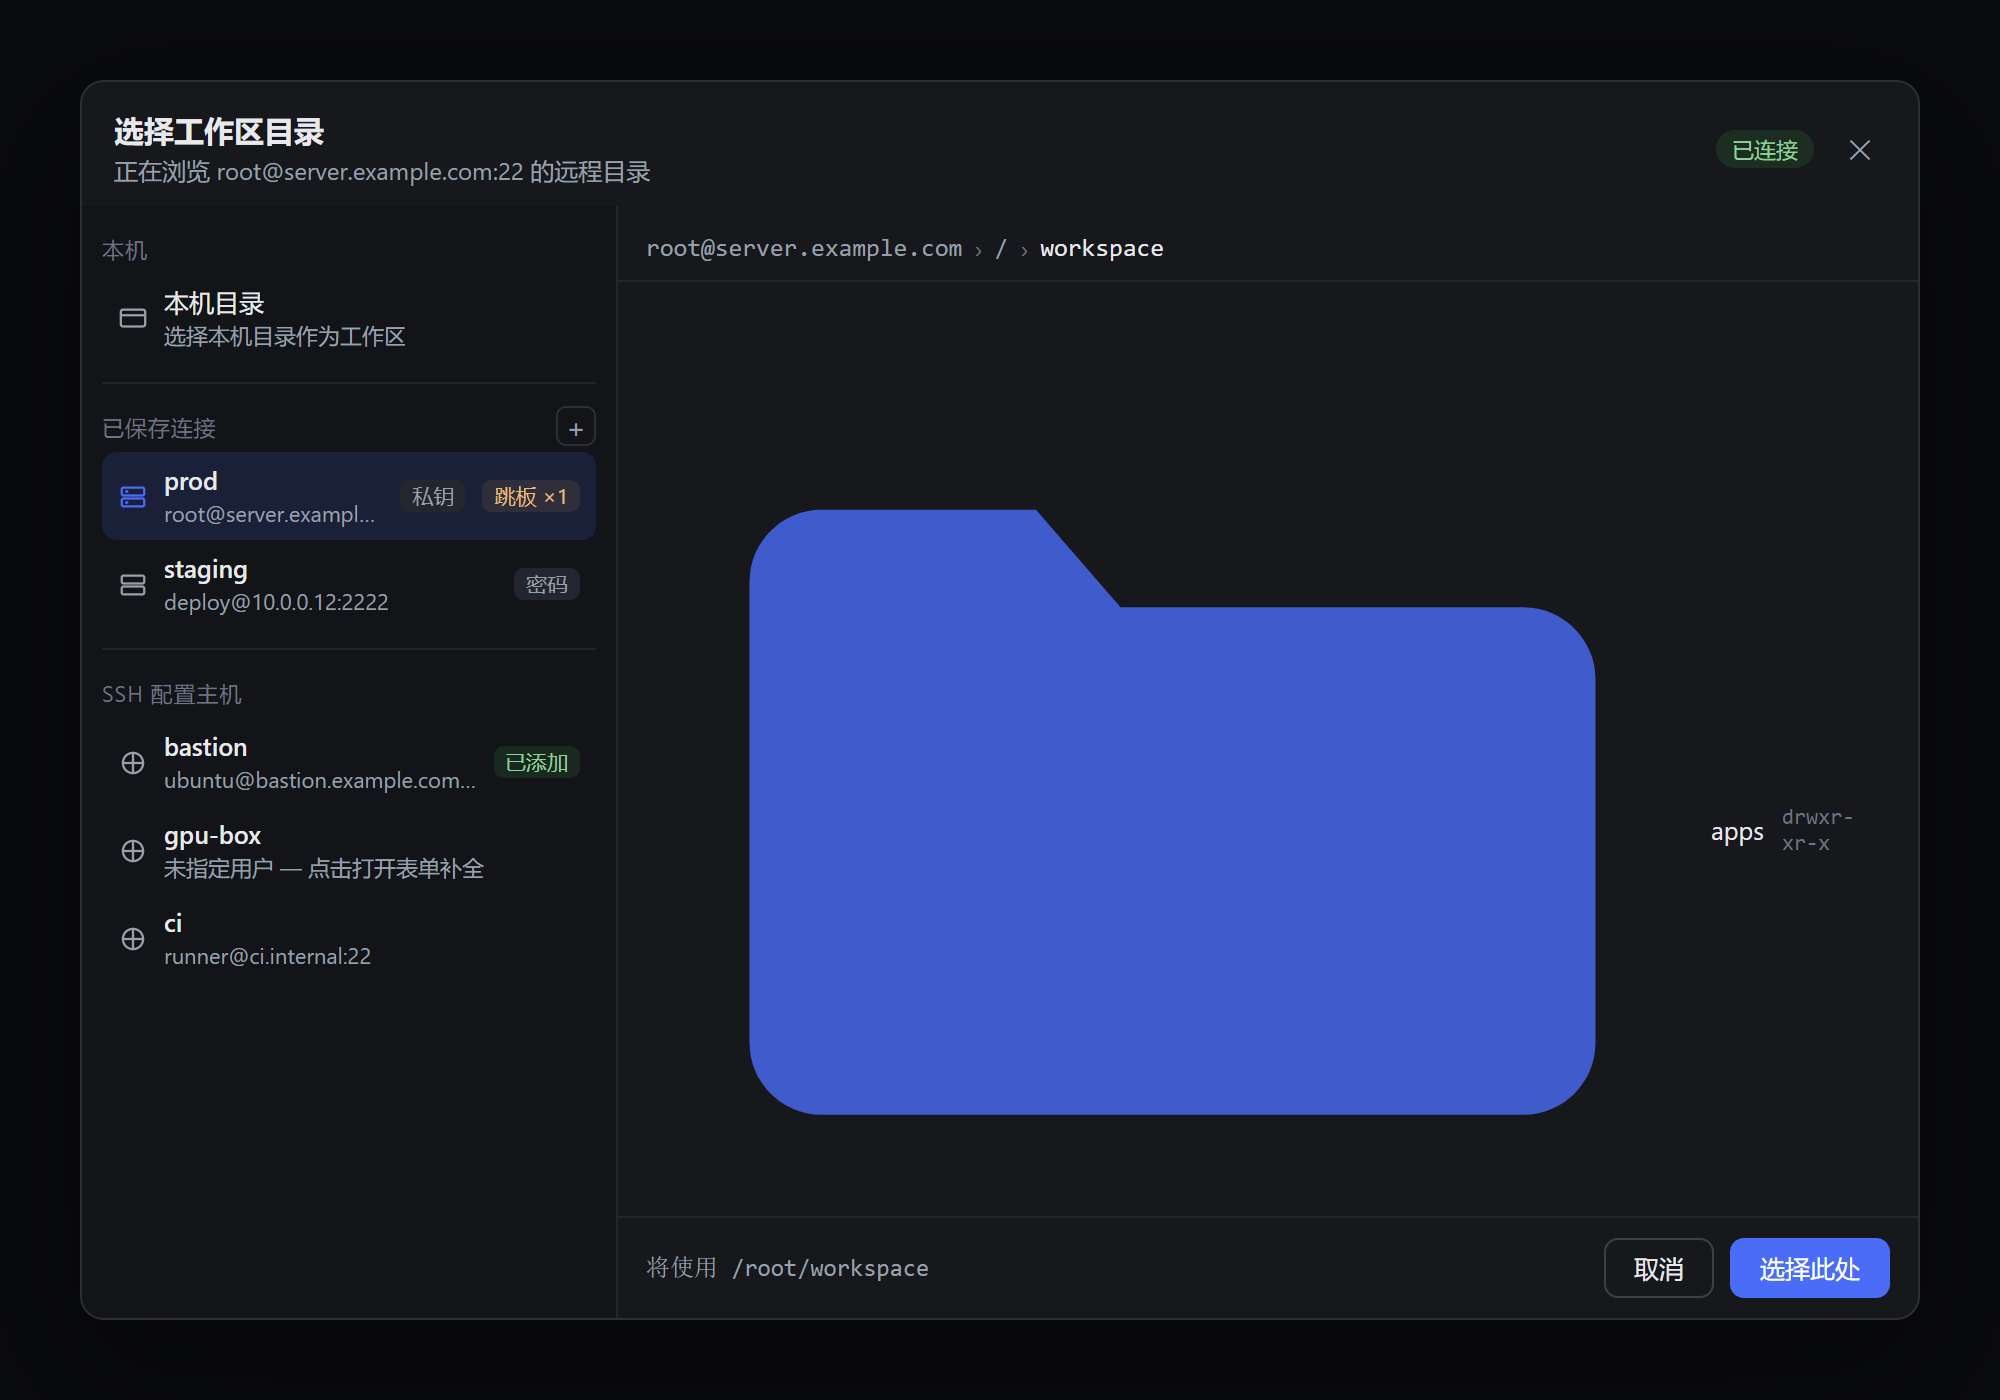
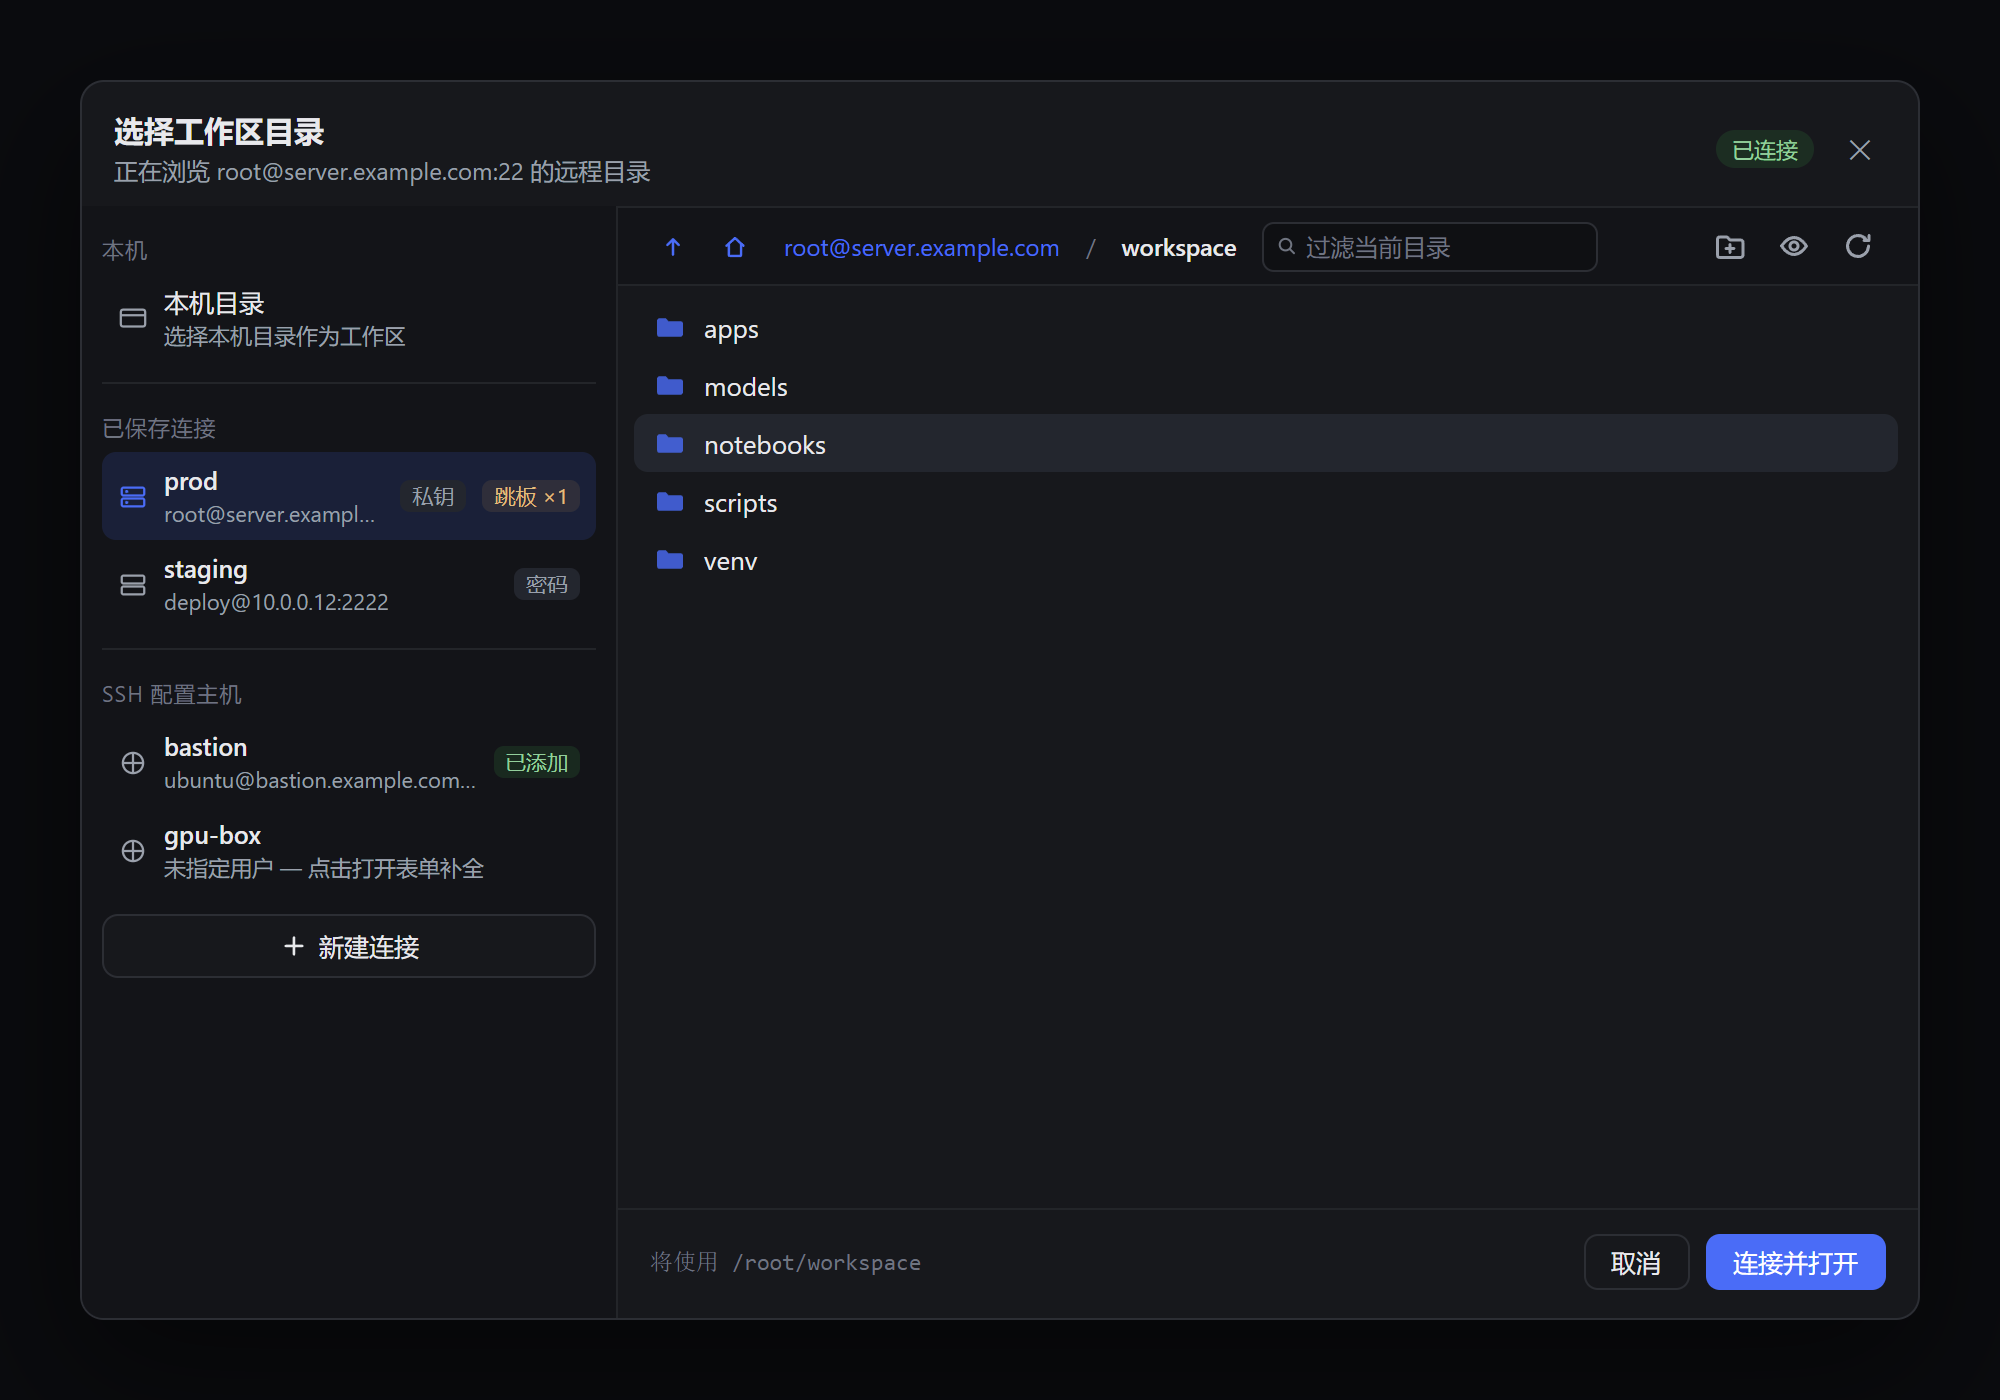
feat(client): filter and keyboard-navigate the directory picker
Add a toolbar filter for the current listing, roving focus across folder
rows, an up-one-level button, and a labeled new-connection action.

diff --git a/src/client/flow.tsx b/src/client/flow.tsx
@@ -9,12 +9,14 @@
  */
 
 import { useEffect, useRef, useState } from 'react'
+import type { KeyboardEvent as ReactKeyboardEvent } from 'react'
 import type { ClientConnection, ConfigHostView, ConnectionState, ConnectionView, WireEntry, WireListing, WireResult } from './index.ts'
 import { ConnectionForm } from './form.tsx'
 import type { ConnectionDraft, ConnectionInputWire, ResolvedSshConfigView } from './form.tsx'
 import { cx, useDialogA11y } from './ui.ts'
 import {
   AlertIcon,
+  ArrowUpIcon,
   CheckIcon,
   ChevronIcon,
   ClockIcon,
@@ -29,6 +31,7 @@ import {
   PlusIcon,
   RefreshIcon,
   RouteIcon,
+  SearchIcon,
   ServerIcon,
   SpinnerIcon,
   TrashIcon,
@@ -324,6 +327,7 @@ export function SshWorkspaceFlow(props: FlowProps & FlowInjected) {
   const [folderBusy, setFolderBusy] = useState(false)
   const [folderError, setFolderError] = useState<string | null>(null)
   const [showHidden, setShowHidden] = useState(false)
+  const [filter, setFilter] = useState('')
   const [nativePicking, setNativePicking] = useState(false)
   const [deleteTarget, setDeleteTarget] = useState<ConnectionView | null>(null)
   const [removingId, setRemovingId] = useState<string | null>(null)
@@ -338,6 +342,8 @@ export function SshWorkspaceFlow(props: FlowProps & FlowInjected) {
   modeRef.current = mode
   const paneRef = useRef<Pane>(pane)
   paneRef.current = pane
+  const searchRef = useRef<HTMLInputElement | null>(null)
+  const entryRefs = useRef<Array<HTMLButtonElement | null>>([])
 
   const hasData = connections.length > 0 || configHosts.length > 0 || pane.listing !== null
   const initialLoading = (connectionsLoading && connections.length === 0)
@@ -390,11 +396,13 @@ export function SshWorkspaceFlow(props: FlowProps & FlowInjected) {
   }
 
   const navigateLocal = (path?: string): void => {
+    if (modeRef.current.kind !== 'local' || path !== paneRef.current.path) setFilter('')
     setMode({ kind: 'local' })
     void loadLevel(signal => listLocalDirectory(path, signal))
   }
 
   const navigateRemote = (id: string, path?: string): void => {
+    if (modeRef.current.kind !== 'remote' || modeRef.current.id !== id || path !== paneRef.current.path) setFilter('')
     setMode({ kind: 'remote', id })
     void loadLevel(async signal => asListing(unwrap(await rpc('browse.list', { id, ...(path !== undefined ? { path } : {}) }, signal), 'browse.list failed')))
   }
@@ -501,6 +509,7 @@ export function SshWorkspaceFlow(props: FlowProps & FlowInjected) {
     setHostError(null)
     setConfirmTarget(null)
     setNativePicking(false)
+    setFilter('')
     setMode({ kind: 'local' })
     void refreshConnections()
     void refreshConfigHosts()
@@ -756,6 +765,10 @@ export function SshWorkspaceFlow(props: FlowProps & FlowInjected) {
 
   const hiddenCount = (pane.listing?.entries ?? []).filter(entry => entry.hidden).length
   const visibleEntries = (pane.listing?.entries ?? []).filter(entry => showHidden || !entry.hidden)
+  const normalizedFilter = filter.trim().toLowerCase()
+  const filteredEntries = normalizedFilter === ''
+    ? visibleEntries
+    : visibleEntries.filter(entry => entry.name.toLowerCase().includes(normalizedFilter))
   const home = pane.listing?.home ?? ''
   const crumbs = pane.listing?.crumbs ?? []
   const lastCrumbIndex = crumbs.length - 1
@@ -786,6 +799,43 @@ export function SshWorkspaceFlow(props: FlowProps & FlowInjected) {
         : pane.path === null
           ? '选择目录后创建会话'
           : `将使用 ${pane.path}`
+
+  /** The ancestor one level up (undefined at a filesystem root). */
+  const parentCrumb = crumbs.length >= 2 ? crumbs[crumbs.length - 2] : undefined
+
+  const goUp = (): void => {
+    if (parentCrumb === undefined) return
+    if (mode.kind === 'local') navigateLocal(parentCrumb.path)
+    else navigateRemote(mode.id, parentCrumb.path)
+  }
+
+  const focusEntry = (index: number): void => {
+    entryRefs.current[index]?.focus()
+  }
+
+  /** Roving focus for the folder list: arrows, Home/End; Enter stays native. */
+  const onEntryKeyDown = (event: ReactKeyboardEvent<HTMLButtonElement>, index: number): void => {
+    if (event.key === 'ArrowDown') {
+      event.preventDefault()
+      focusEntry(Math.min(index + 1, filteredEntries.length - 1))
+    } else if (event.key === 'ArrowUp') {
+      event.preventDefault()
+      focusEntry(Math.max(index - 1, 0))
+    } else if (event.key === 'Home') {
+      event.preventDefault()
+      focusEntry(0)
+    } else if (event.key === 'End') {
+      event.preventDefault()
+      focusEntry(filteredEntries.length - 1)
+    }
+  }
+
+  const onSearchKeyDown = (event: ReactKeyboardEvent<HTMLInputElement>): void => {
+    if (event.key === 'ArrowDown' && filteredEntries.length > 0) {
+      event.preventDefault()
+      focusEntry(0)
+    }
+  }
 
   /** The translated remote failure for the right pane, when there is one. */
   const paneBusinessError = pane.error !== null && !isTransportError(pane.error)
@@ -893,7 +943,7 @@ export function SshWorkspaceFlow(props: FlowProps & FlowInjected) {
                 <div className={styles.sideEmpty}>
                   <ServerIcon className={styles.sideEmptyIcon} style={{ width: 18, height: 18 }} />
                   <p className={styles.sideEmptyTitle}>还没有保存的连接</p>
-                  <p className={styles.sideEmptyText}>点右下角「＋」新建，或从下方 SSH 配置主机一键添加。</p>
+                  <p className={styles.sideEmptyText}>点下方「新建连接」，或从 SSH 配置主机一键添加。</p>
                 </div>
               )}
 
@@ -1063,12 +1113,23 @@ export function SshWorkspaceFlow(props: FlowProps & FlowInjected) {
               onClick={() => { openForm() }}
             >
               <PlusIcon style={{ width: 14, height: 14 }} />
+              新建连接
             </button>
           </nav>
 
           <div className={styles.main}>
             <div className={styles.toolbar}>
               <nav className={styles.crumbs} aria-label="当前路径">
+                <button
+                  type="button"
+                  className={styles.crumb}
+                  aria-label="上一级"
+                  title="上一级"
+                  disabled={locked || pane.loading || parentCrumb === undefined}
+                  onClick={goUp}
+                >
+                  <ArrowUpIcon style={{ width: 13, height: 13, verticalAlign: '-2px' }} />
+                </button>
                 <button
                   type="button"
                   className={styles.crumb}
@@ -1104,6 +1165,29 @@ export function SshWorkspaceFlow(props: FlowProps & FlowInjected) {
                 )}
                 {connectionUi.stale && <span className={styles.cacheTag}><ClockIcon />缓存</span>}
               </nav>
+              <div className={styles.searchBox} role="search">
+                <SearchIcon className={styles.searchIcon} />
+                <input
+                  ref={searchRef}
+                  className={styles.searchInput}
+                  value={filter}
+                  placeholder="过滤当前目录"
+                  aria-label="过滤当前目录"
+                  disabled={locked || pane.listing === null}
+                  onChange={event => { setFilter(event.target.value) }}
+                  onKeyDown={onSearchKeyDown}
+                />
+                {filter !== '' && (
+                  <button
+                    type="button"
+                    className={styles.searchClear}
+                    aria-label="清除过滤"
+                    onClick={() => { setFilter(''); searchRef.current?.focus() }}
+                  >
+                    <CloseIcon />
+                  </button>
+                )}
+              </div>
           <div className={styles.toolbarActions}>
             {mode.kind === 'local' && (
               <button
@@ -1209,19 +1293,29 @@ export function SshWorkspaceFlow(props: FlowProps & FlowInjected) {
                   <p className={styles.emptyText}>
                     {hiddenCount > 0 && !showHidden
                       ? `另有 ${hiddenCount} 个点开头的文件夹未显示`
-                      : '可直接在此目录新建文件夹，或选择上方路径'}
+                      : '可直接在此目录新建文件夹，或点击底部按钮选择当前目录'}
                   </p>
                 </div>
               )}
 
-              {visibleEntries.length > 0 && (
+              {pane.listing !== null && visibleEntries.length > 0 && filteredEntries.length === 0 && !showPaneSkeleton && pane.error === null && (
+                <div className={styles.emptyState}>
+                  <SearchIcon className={styles.emptyIcon} style={{ width: 22, height: 22 }} />
+                  <p className={styles.emptyTitle}>没有匹配的文件夹</p>
+                  <p className={styles.emptyText}>当前目录中没有名称包含「{filter.trim()}」的文件夹。</p>
+                </div>
+              )}
+
+              {filteredEntries.length > 0 && (
                 <ul className={styles.entryList} role="list">
-                  {visibleEntries.map(entry => (
+                  {filteredEntries.map((entry, index) => (
                     <li key={entry.path}>
                       <button
                         type="button"
+                        ref={element => { entryRefs.current[index] = element }}
                         className={cx(styles.entry, entry.hidden && styles.entryHidden)}
                         disabled={locked}
+                        onKeyDown={event => { onEntryKeyDown(event, index) }}
                         onClick={() => {
                           if (mode.kind === 'local') navigateLocal(entry.path)
                           else navigateRemote(mode.id, entry.path)

diff --git a/src/client/flow.module.css b/src/client/flow.module.css
@@ -305,26 +305,28 @@
 
 .sidebarAdd {
   position: sticky;
-  bottom: 4px;
-  margin-top: 10px;
-  margin-left: auto;
+  bottom: 0;
   display: inline-flex;
   align-items: center;
   justify-content: center;
-  width: 30px;
-  height: 30px;
+  gap: 6px;
+  width: 100%;
+  height: 32px;
   flex: none;
-  padding: 0;
-  border: none;
-  border-radius: 50%;
-  background: var(--dshssh-accent);
-  color: var(--dshssh-accent-fg);
-  box-shadow: 0 4px 12px rgba(0, 0, 0, 0.28);
+  margin-top: 10px;
+  padding: 0 10px;
+  border: 1px solid var(--dshssh-border);
+  border-radius: 8px;
+  background: var(--dshssh-surface);
+  color: var(--dshssh-fg);
+  font-size: 12.5px;
+  font-weight: 500;
   cursor: pointer;
 }
 
-.sidebarAdd:hover {
-  filter: brightness(1.1);
+.sidebarAdd:hover:not(:disabled) {
+  background: var(--dshssh-surface-3);
+  border-color: var(--dshssh-border-strong);
 }
 
 .sidebarTitle {
@@ -487,6 +489,78 @@
   align-items: center;
   gap: 4px;
   flex: none;
+}
+
+/* ---------- directory filter ---------- */
+
+.searchBox {
+  display: flex;
+  align-items: center;
+  gap: 4px;
+  flex: none;
+  width: 168px;
+  height: 25px;
+  padding: 0 6px;
+  border: 1px solid var(--dshssh-border);
+  border-radius: 6px;
+  background: var(--dshssh-surface-inset);
+  color: var(--dshssh-fg-subtle);
+}
+
+.searchBox:focus-within {
+  border-color: var(--dshssh-accent);
+  box-shadow: 0 0 0 2px var(--dshssh-accent-soft);
+}
+
+.searchIcon {
+  width: 12px;
+  height: 12px;
+  flex: none;
+}
+
+.searchInput {
+  flex: 1 1 auto;
+  min-width: 0;
+  width: 100%;
+  padding: 0;
+  border: none;
+  outline: none;
+  background: transparent;
+  color: var(--dshssh-fg);
+  font-size: 12px;
+}
+
+.searchInput::placeholder {
+  color: var(--dshssh-fg-subtle);
+}
+
+.searchInput:disabled {
+  opacity: 0.55;
+}
+
+.searchClear {
+  display: inline-flex;
+  align-items: center;
+  justify-content: center;
+  width: 16px;
+  height: 16px;
+  flex: none;
+  padding: 0;
+  border: none;
+  border-radius: 4px;
+  background: transparent;
+  color: var(--dshssh-fg-subtle);
+  cursor: pointer;
+}
+
+.searchClear svg {
+  width: 10px;
+  height: 10px;
+}
+
+.searchClear:hover {
+  background: var(--dshssh-surface-3);
+  color: var(--dshssh-fg);
 }
 
 .toolButton {
@@ -1244,6 +1318,10 @@
 
   .toolbar {
     flex-wrap: wrap;
+  }
+
+  .searchBox {
+    width: 100%;
   }
 
   .footer {

diff --git a/src/client/icons.tsx b/src/client/icons.tsx
@@ -180,6 +180,23 @@ export function SparkIcon(props: IconProps) {
   )
 }
 
+export function SearchIcon(props: IconProps) {
+  return (
+    <svg {...base} {...props}>
+      <circle cx="7" cy="7" r="4.25" />
+      <path d="M10.25 10.25l3 3" />
+    </svg>
+  )
+}
+
+export function ArrowUpIcon(props: IconProps) {
+  return (
+    <svg {...base} {...props}>
+      <path d="M8 12.75V3.25M4.5 6.75 8 3.25l3.5 3.5" />
+    </svg>
+  )
+}
+
 export function SpinnerIcon(props: IconProps) {
   return (
     <svg {...base} {...props}>
